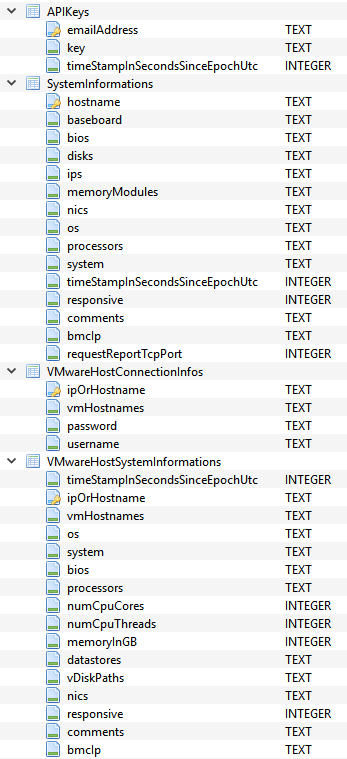
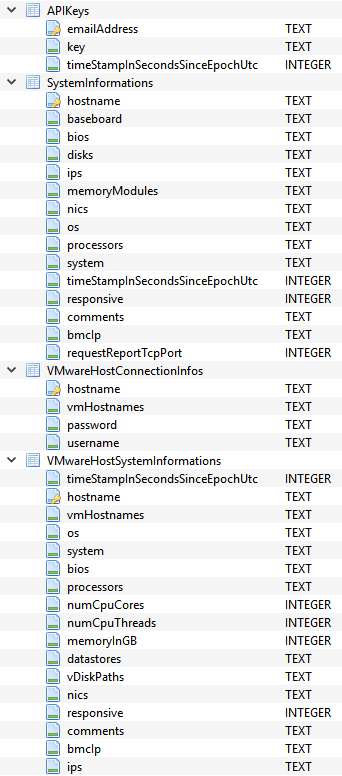
Updated readme for current version (0.2)

Changed region(s): [[0.0292, 0.0, 0.7602, 1.0], [0.8187, 0.1212, 0.9649, 1.0], [0.8187, 0.0303, 0.9649, 0.0909]]

diff --git a/README.md b/README.md
@@ -22,8 +22,17 @@ Agents are installed on the computers you want to inventorize. These communicate
 
 <a name="version_history"></a>
 ## Version history
-**2018-06-22** - **version 0.1**: First robust implementation.  
-*Compatible with sizingservers.beholder.agent 0.1 / sizingservers.beholder.frontend 0.1*
+**2018-07-12** - **version 0.2**: Added vhost host name and IP discovery.  
+*Compatible with sizingservers.beholder.agent 0.1 / sizingservers.beholder.frontend 0.2*
+
+    IMPORTANT - Added hostname and ip discovery to VHosts
+    
+    When upgrading from version 0.1, you must alter beholder.db for this to work:
+    * add a TEXT field ips to VMwareHostSystemInformations
+    * change ipOrHostname to hostname in VMwareHostSystemInformations and VMwareHostConnectionInfos 
+
+**Previous versions**:
+2018-06-22 - version 0.1: First robust implementation. Compatible with sizingservers.beholder.agent 0.1 / sizingservers.beholder.frontend 0.1
 
 <a name="languages"></a>
 ## Languages, libraries, tools and technologies used
